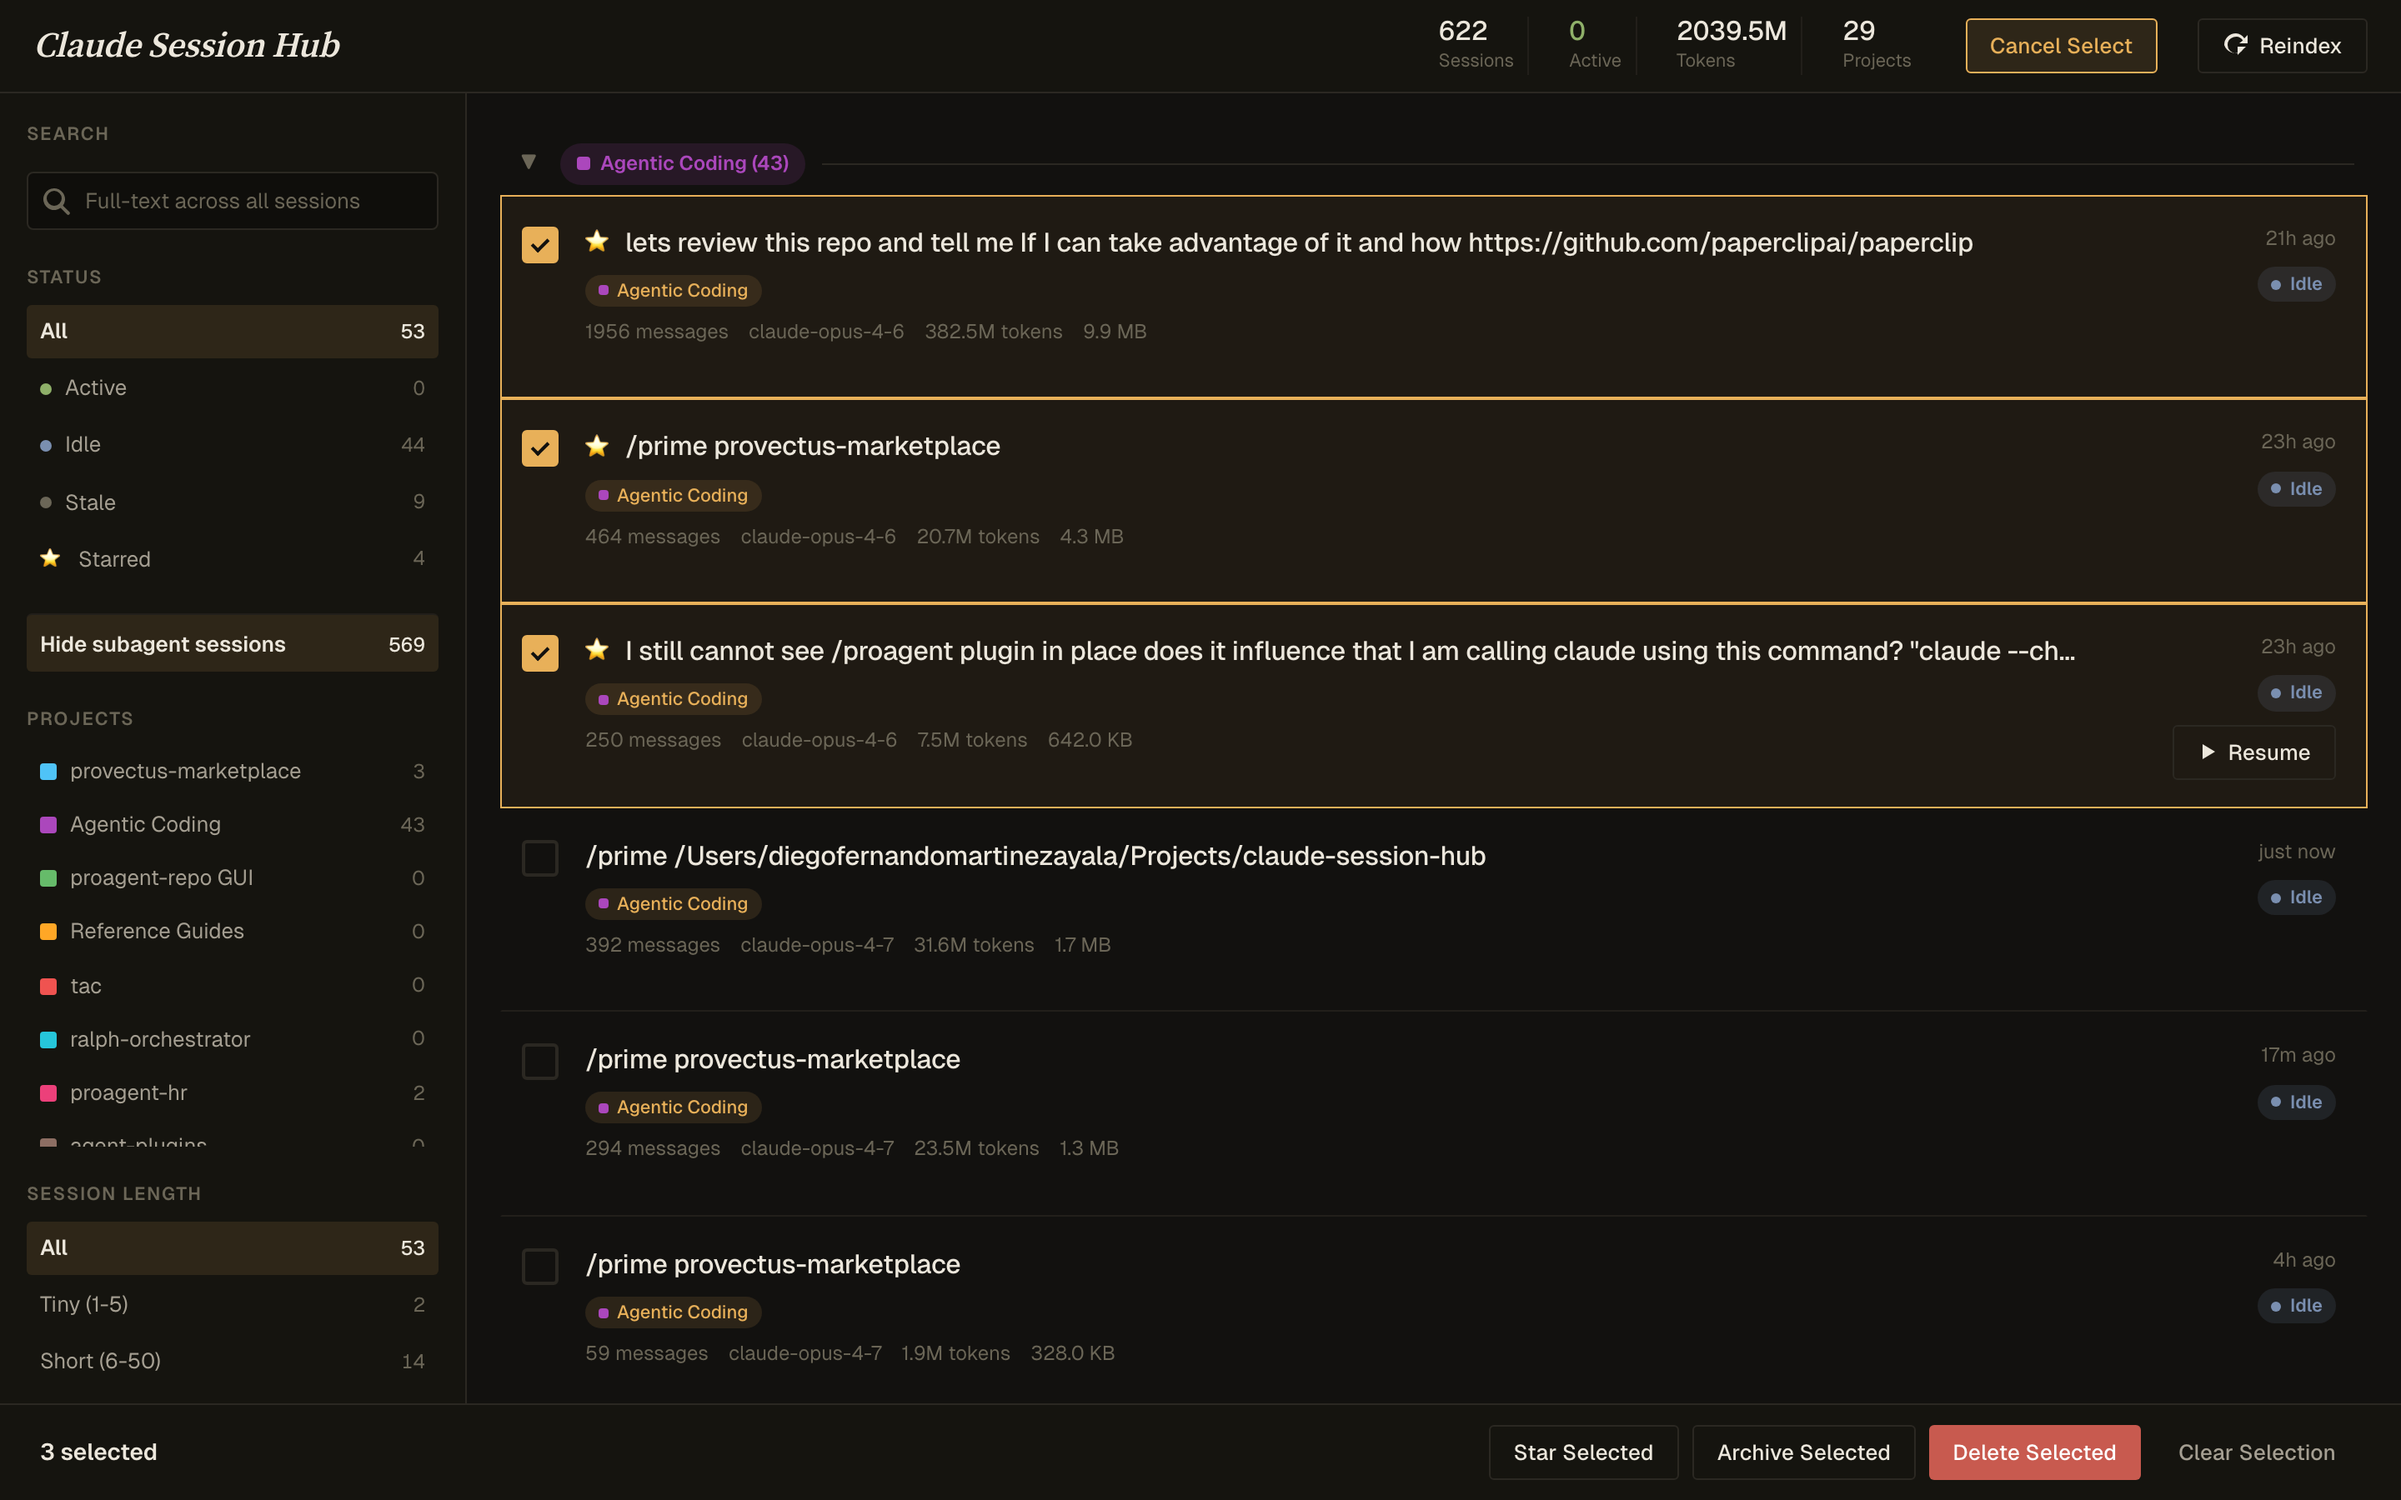
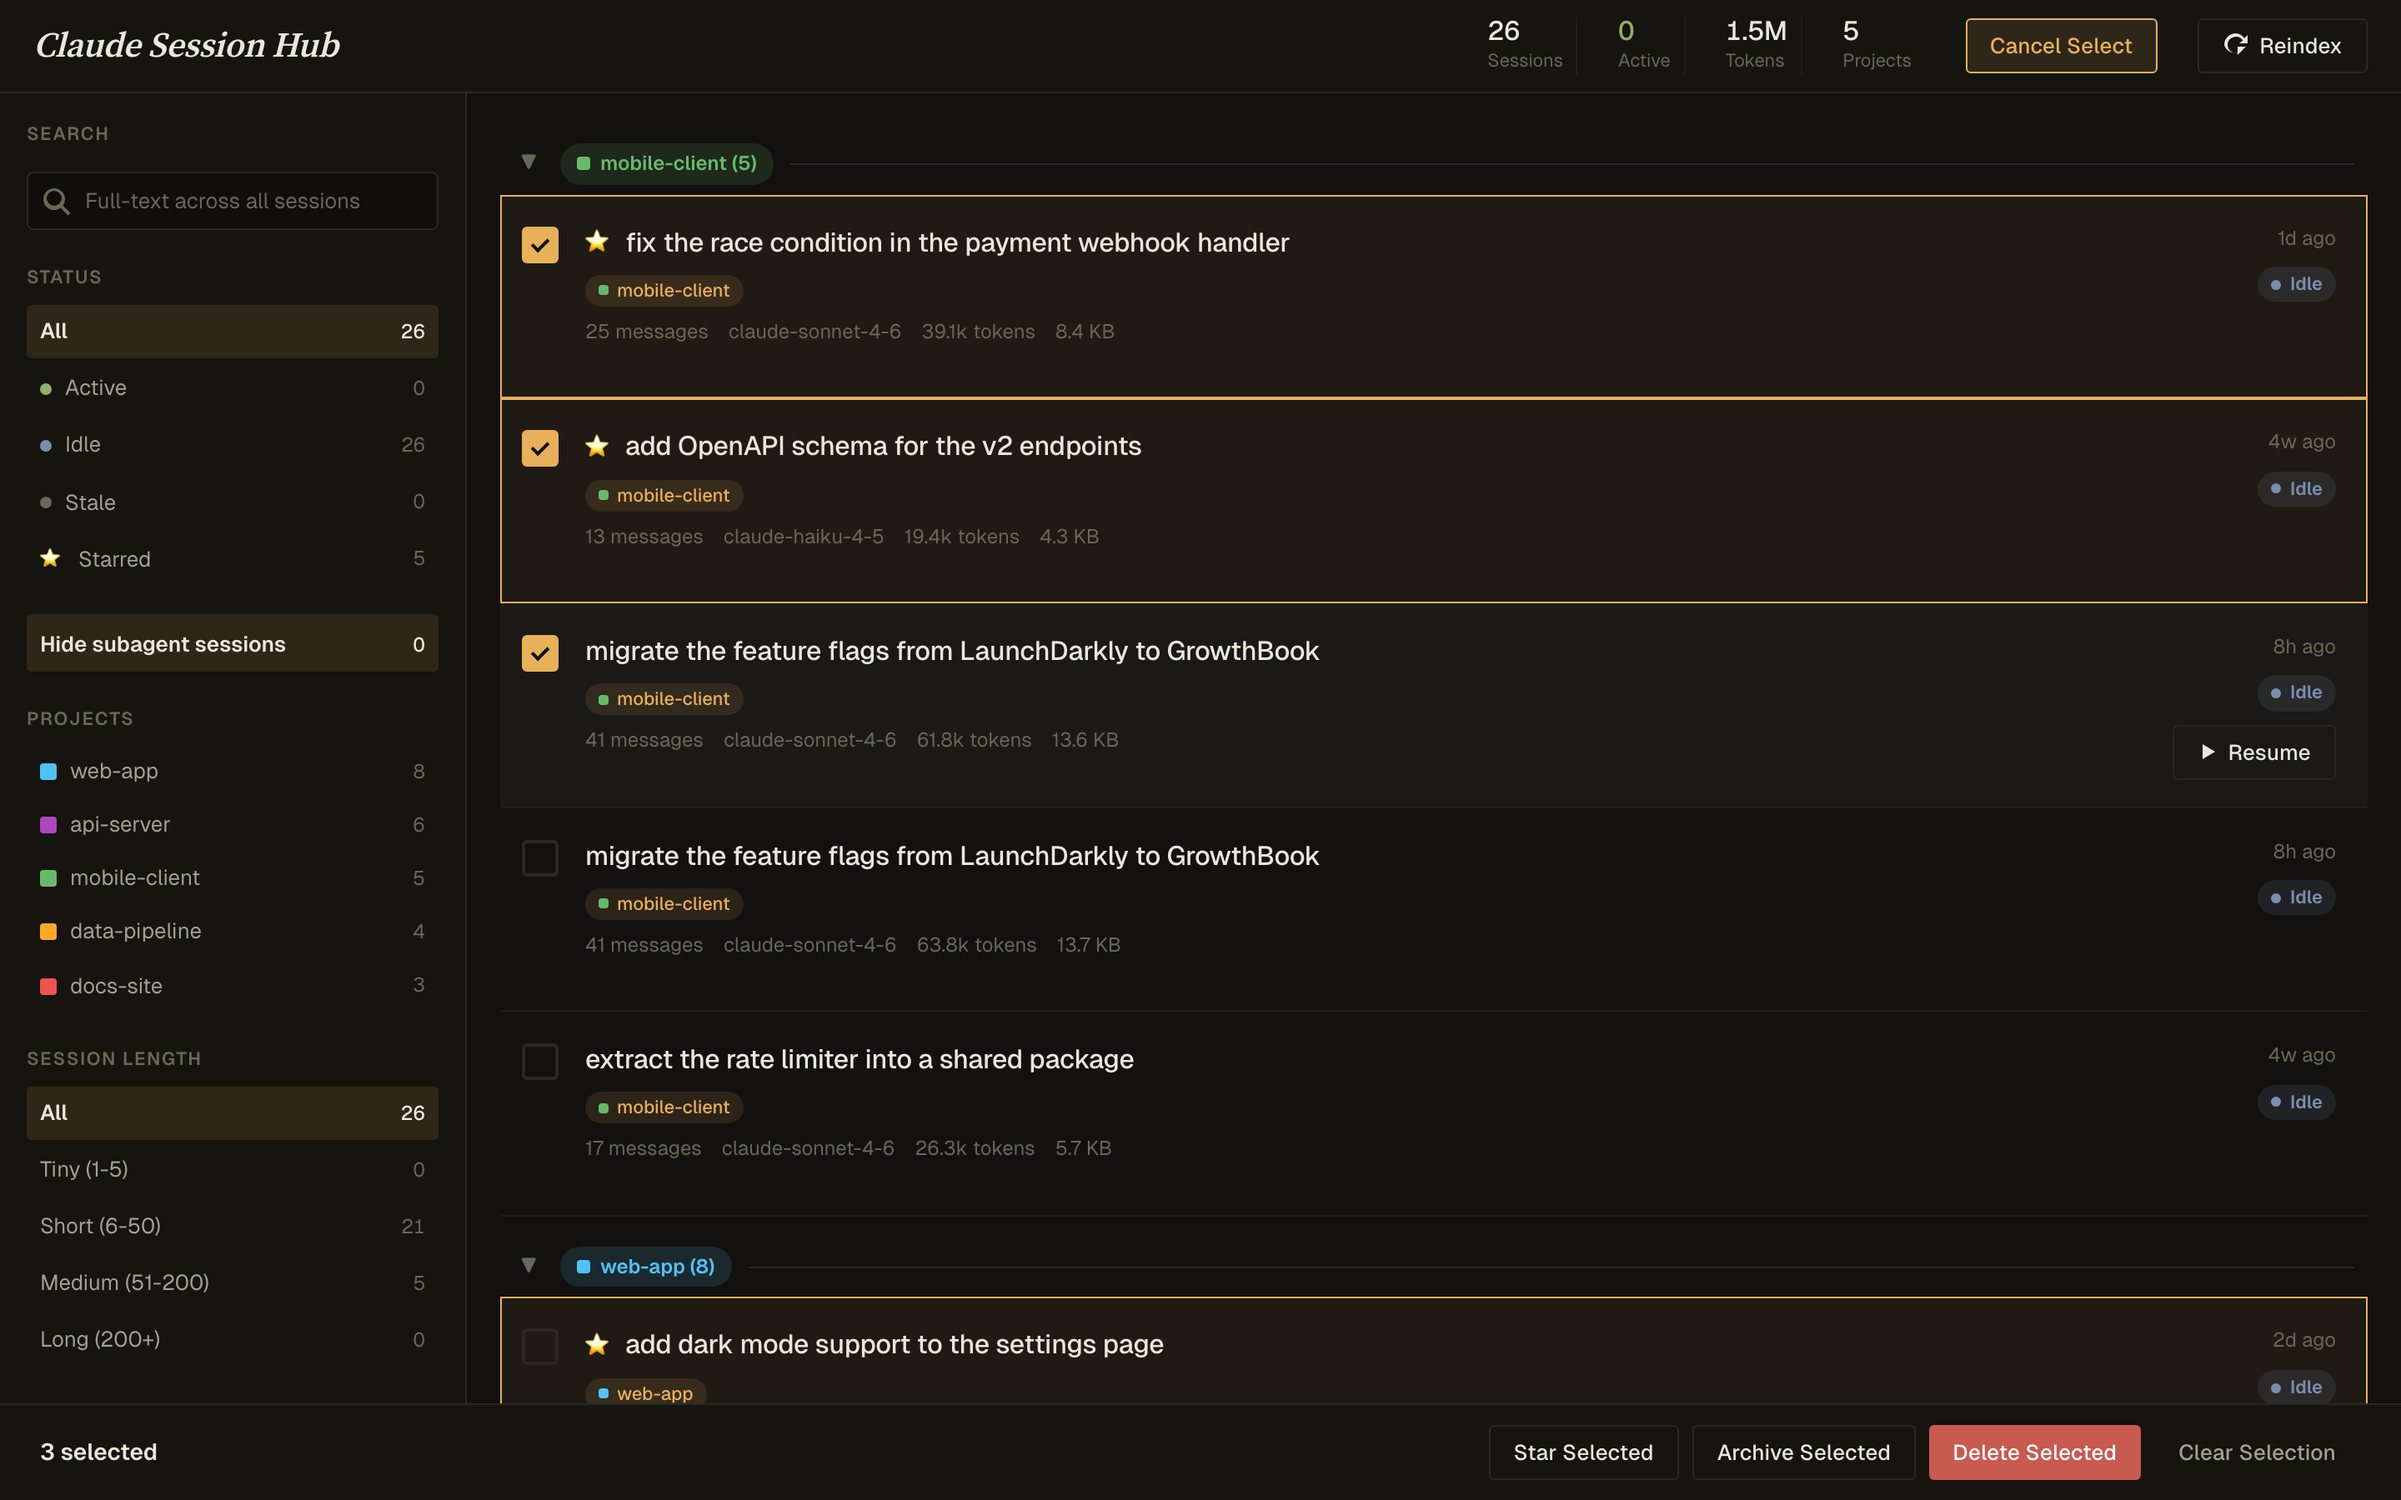
docs: sanitize screenshots with synthetic demo data
The prior screenshots leaked real project names, session counts, token
totals, and cwd paths (including my username). Replace every shot with
captures against a throwaway demo DB containing 26 fake sessions across
five generic project names (web-app, api-server, mobile-client,
data-pipeline, docs-site) and benign first-user messages ("refactor the
auth middleware", "add dark mode support", etc.).

Also drop the "609+ sessions indexed" bullet from the README — that
number was my personal count and isn't meaningful to other readers.

diff --git a/README.md b/README.md
@@ -15,7 +15,7 @@ Claude Code saves every session to disk, but there's no way to:
 
 ## Features
 
-- **609+ sessions indexed** — reads directly from `~/.claude/projects/`
+- **All your sessions, indexed** — reads directly from `~/.claude/projects/`
 - **Full-text search** — find any session by content, not just title
 - **Active session detection** — see which sessions have running processes (green badge)
 - **One-click resume** — opens Terminal.app with the right session loaded
